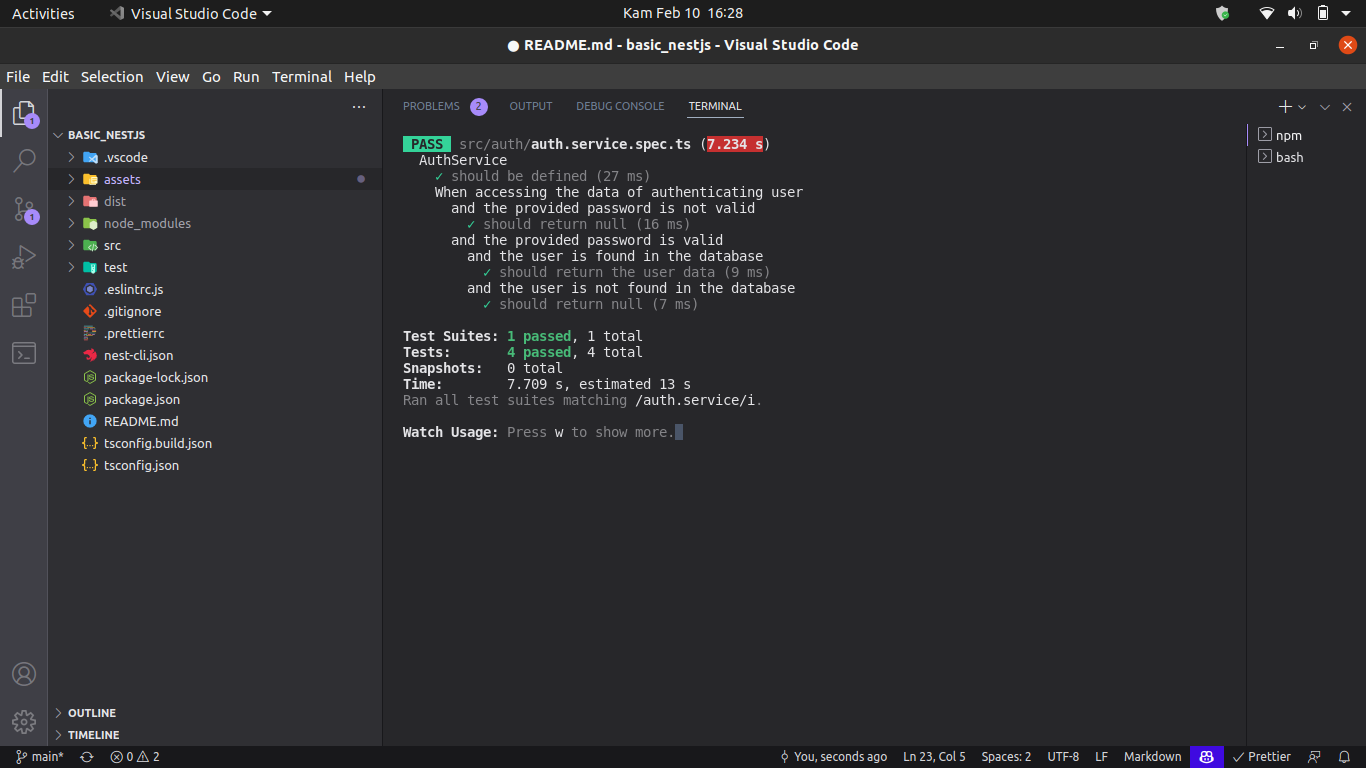
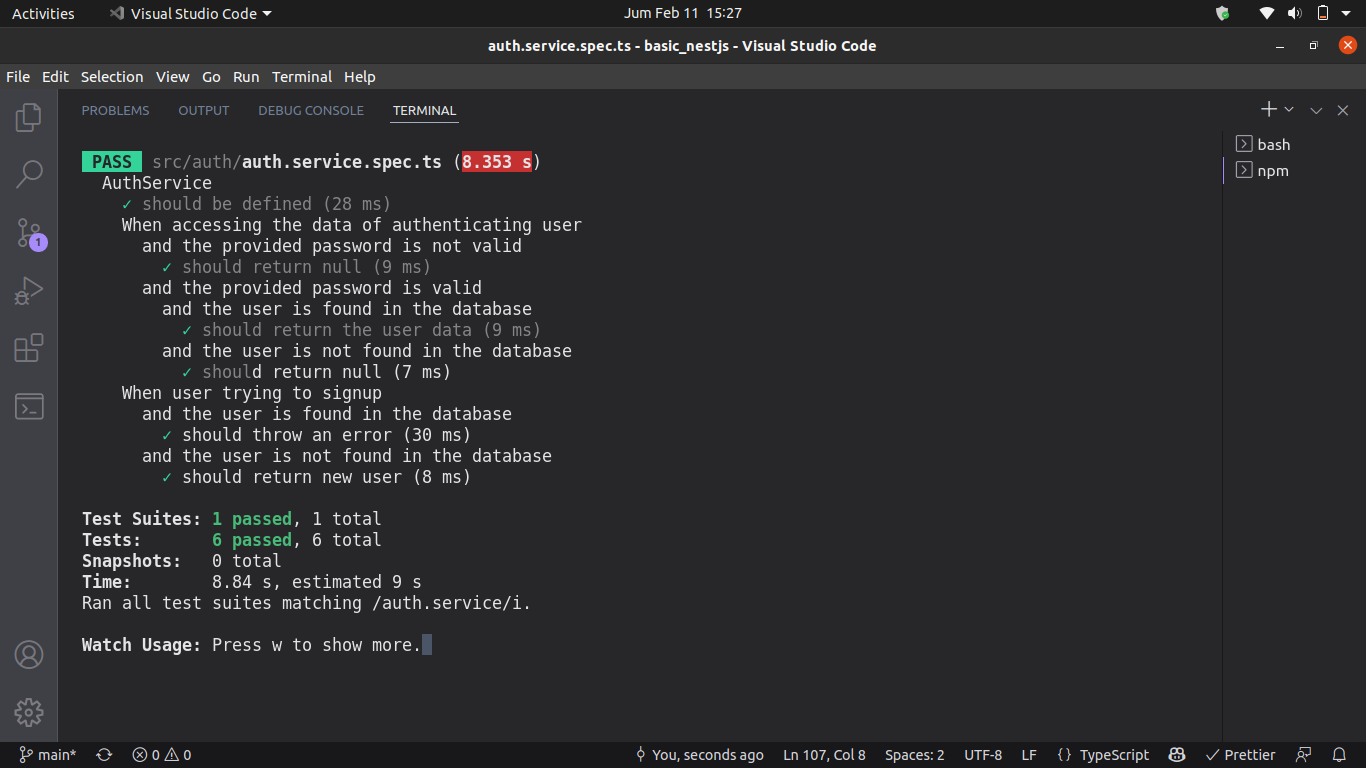
Update proof for auth integration service test

diff --git a/src/auth/auth.service.spec.ts b/src/auth/auth.service.spec.ts
@@ -56,6 +56,7 @@ describe('AuthService', () => {
     expect(service).toBeDefined();
   });
 
+  // signin
   describe('When accessing the data of authenticating user', () => {
     describe('and the provided password is not valid', () => {
       beforeEach(() => {
@@ -91,6 +92,7 @@ describe('AuthService', () => {
     });
   });
 
+  // signup
   describe('When user trying to signup ', () => {
     describe('and the user is found in the database', () => {
       beforeEach(() => {
